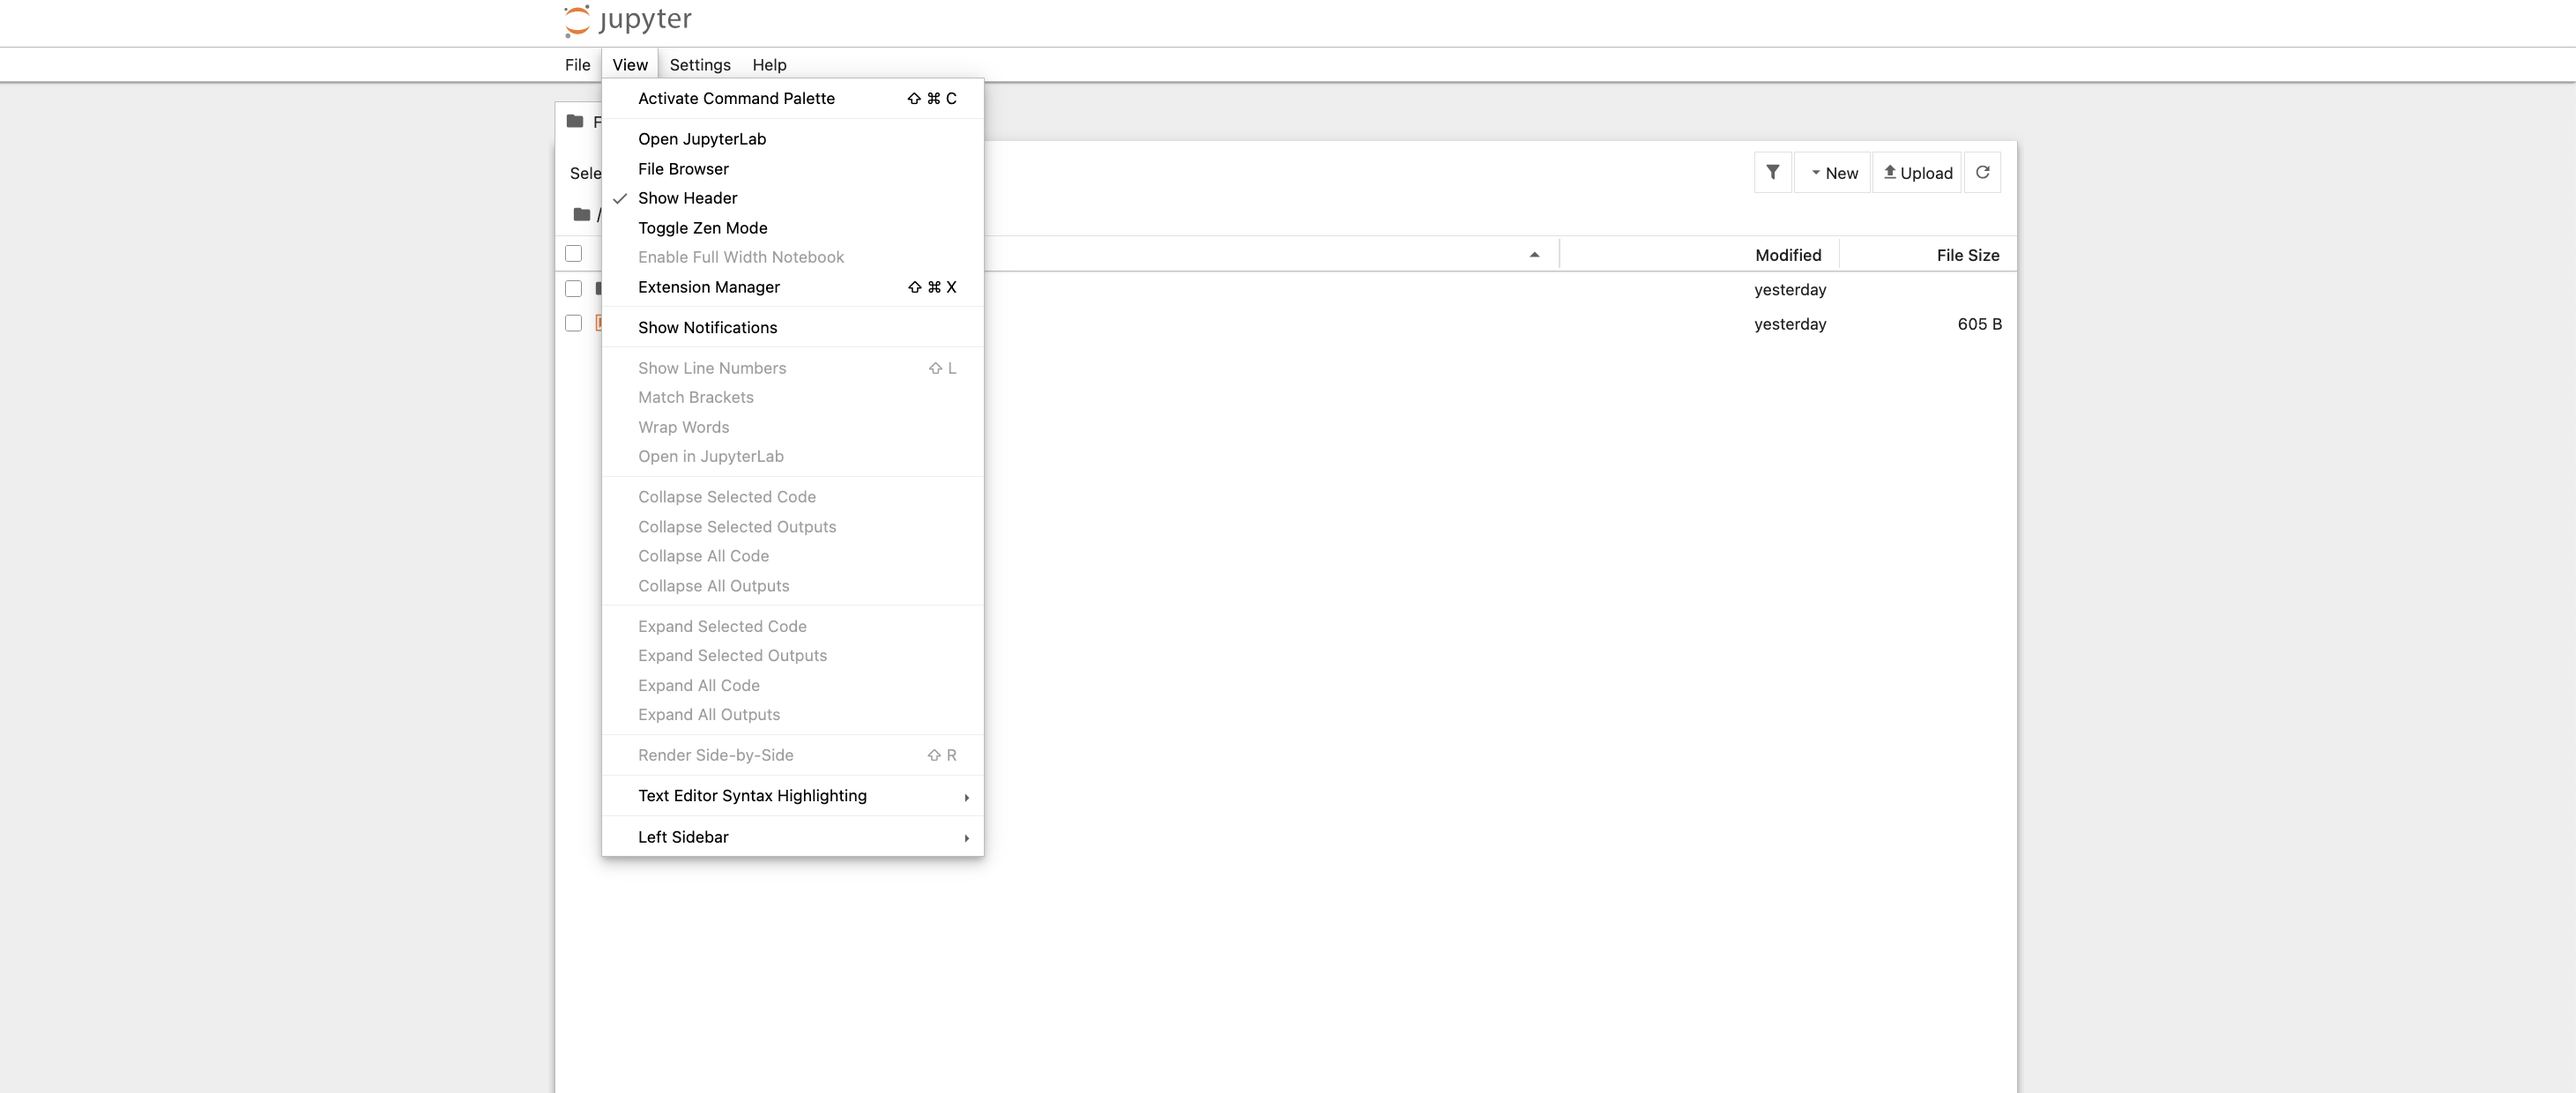
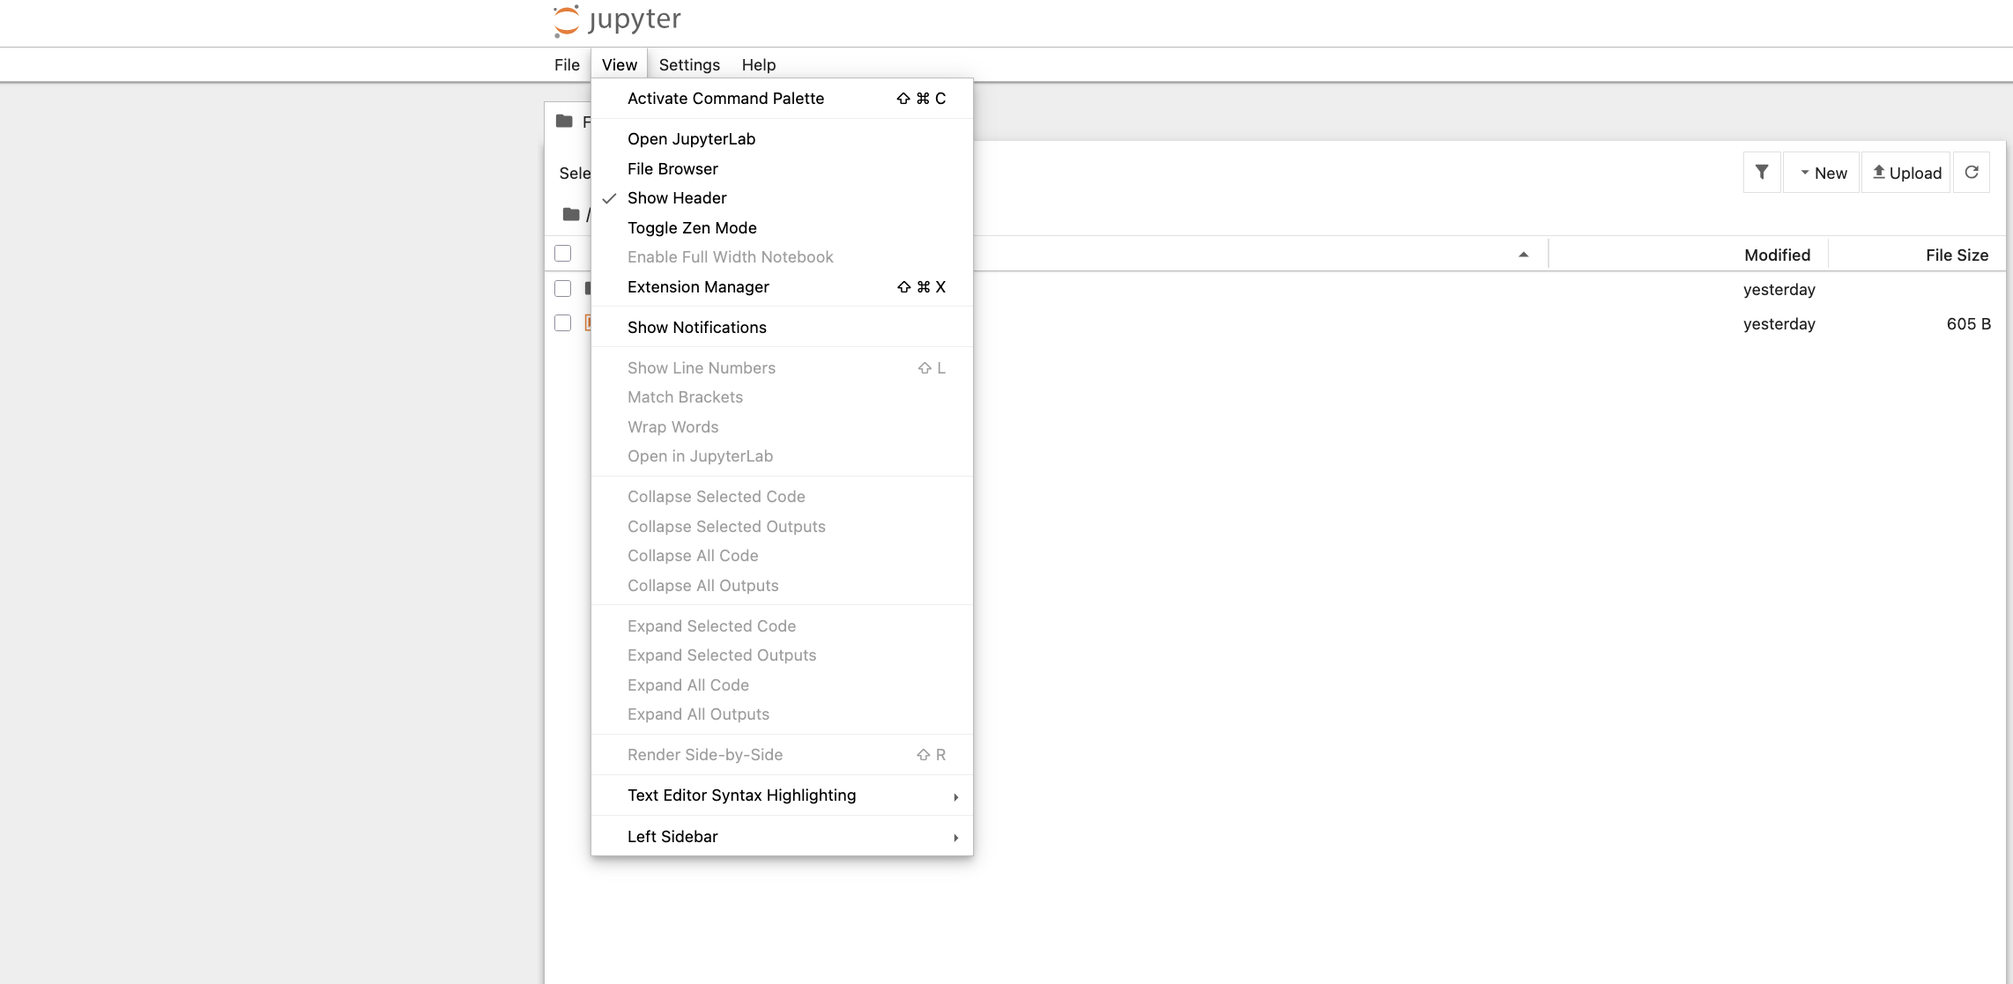
Add images and notebooks + uodate README.md

diff --git a/README.md b/README.md
@@ -13,22 +13,28 @@ You need 2 ingredients :
 - your login and password : as *`taller-locmarcaXXX`* and *`yourpassword`*
 
 ### Step by step 
-1. step 1 connect to the onDemand JupyterLab of Kabre
+- step 1 connect to the onDemand JupyterLab of Kabre
+
 ![alt text](images/images_connectkabre/01-connect_ondemandkabre.png)
 
-2. step 2 : launch a Jupyter Notebook
+- step 2 : launch a Jupyter Notebook
+
 ![alt text](images/images_connectkabre/02-launch_jupterlab.png)
 
-3. step 3 : launch a Jupyther Notebook 
+- step 3 : launch a Jupyther Notebook 
+
 ![alt text](images/images_connectkabre/03-connectjupyter.png)
 
-4. step 4 : launch a "modern" JupyterLab (not Jupyther Notebook)
+- step 4 : launch a "modern" JupyterLab (not Jupyther Notebook)
+
 ![alt text](images/images_connectkabre/04-install.png)
 
-1. step 5 : various type of sessions
+- step 5 : various type of sessions
+
 ![alt text](images/images_connectkabre/05-install.png)
 
-1. step 6 : lauch a  terminal session
+- step 6 : lauch a  terminal session
+
 ![alt text](images/images_connectkabre/06-install.png)
 
 
